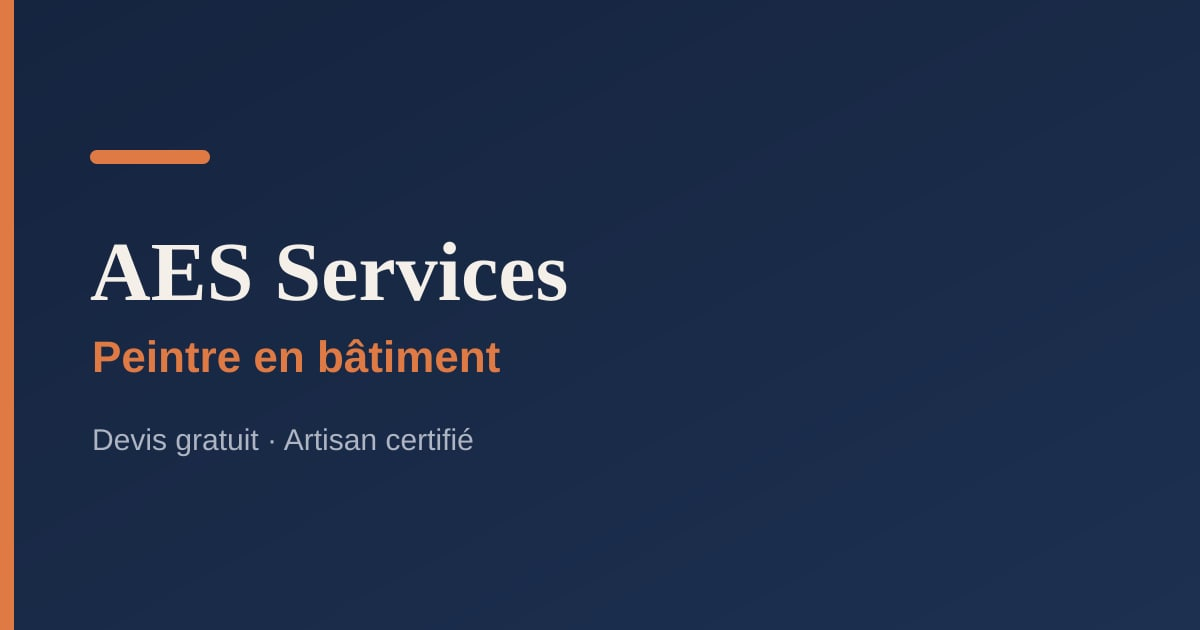
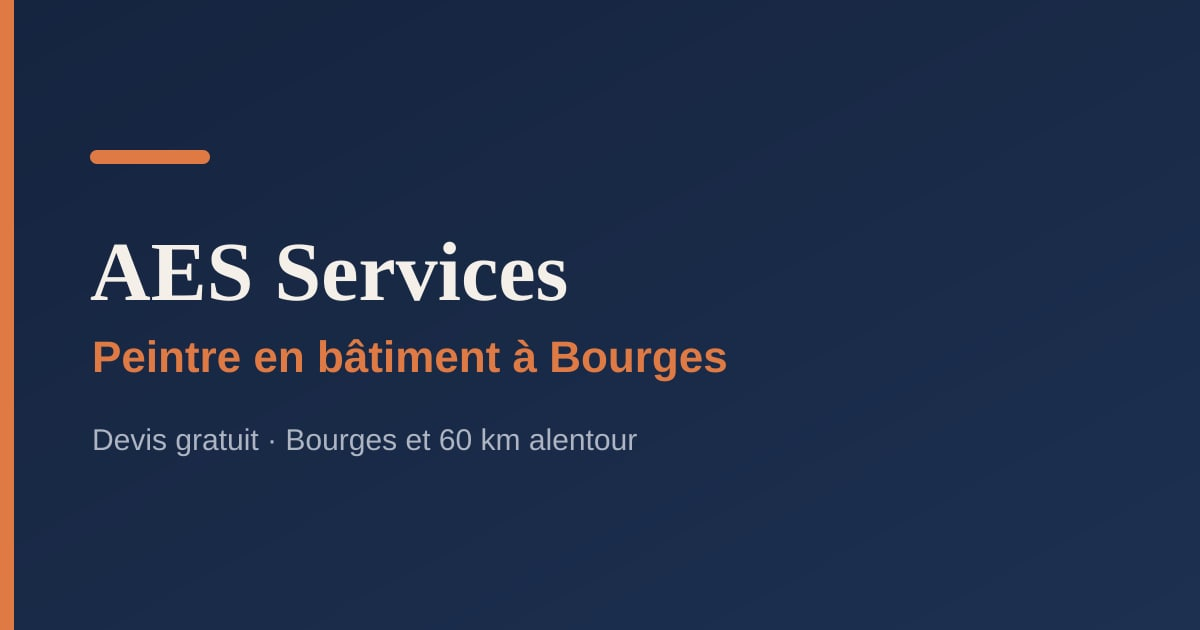
feat(seo): JSON-LD, metadata, llms.txt and base URL plumbing
- 3 JSON-LD blocks: HousePainter (with aggregateRating + areaServed +
  offers), Person, FAQPage
- Centralized canonical base URL in lib/seo.ts (sitemap/robots/layout)
- Fixed metadata URL resolution with project basePath (canonical/OG use
  plain paths since metadataBase carries the basePath; icons use asset())
- public/llms.txt structured business summary
- Conditional Cookies section in legal page (shown when GA id is set)
- OG signature image regenerated with city subline

Claude-Session: https://claude.ai/code/session_01DMSbvoZGHSiRChphS2EjCM

Changed region(s): [[0.2158, 0.6635, 0.5242, 0.7238], [0.4317, 0.5429, 0.6167, 0.6032]]

diff --git a/app/mentions-legales/page.tsx b/app/mentions-legales/page.tsx
@@ -1,6 +1,7 @@
 import type { Metadata } from "next";
 import Link from "next/link";
 import { site } from "../lib/site";
+import { GA_ID } from "../lib/analytics";
 
 export const metadata: Metadata = {
   title: "Mentions légales",
@@ -60,7 +61,20 @@ export default function MentionsLegales() {
         </p>
       </section>
 
-      {/* La section Cookies est ajoutée à l'étape 6 si un GA ID est fourni. */}
+      {GA_ID && (
+        <section id="cookies" className="mt-8 scroll-mt-24 space-y-2 text-sm leading-relaxed">
+          <h2 className="text-xl font-semibold text-ink">Cookies</h2>
+          <p className="text-ink-soft">
+            Ce site utilise des cookies de mesure d&apos;audience (Google
+            Analytics) afin d&apos;analyser la fréquentation et améliorer le
+            contenu. Ces cookies ne sont déposés qu&apos;après votre
+            consentement explicite via le bandeau prévu à cet effet. Vous pouvez
+            modifier ou retirer votre choix à tout moment en cliquant sur «&nbsp;Gérer
+            les cookies&nbsp;» en bas de page. Aucun cookie publicitaire
+            n&apos;est utilisé.
+          </p>
+        </section>
+      )}
     </main>
   );
 }

diff --git a/app/layout.tsx b/app/layout.tsx
@@ -3,6 +3,7 @@ import { Fraunces, Inter } from "next/font/google";
 import "./globals.css";
 import { site } from "./lib/site";
 import { asset } from "./lib/asset";
+import { baseUrl } from "./lib/seo";
 import { Analytics } from "./components/Analytics";
 
 const fraunces = Fraunces({
@@ -17,11 +18,6 @@ const inter = Inter({
   variable: "--font-inter",
   display: "swap",
 });
-
-const baseUrl =
-  site.domain && site.domain.startsWith("http")
-    ? site.domain
-    : "https://nyokaa.github.io/siteaesservices";
 
 const title = `${site.name} — ${site.trade}${
   site.city && !site.city.startsWith("<") ? ` à ${site.city}` : ""
@@ -47,6 +43,9 @@ export const metadata: Metadata = {
     "décoration murale",
     site.city,
   ].filter((k) => k && !k.startsWith("<")),
+  // metadataBase already carries the basePath, so absolute metadata URLs use
+  // plain "/…" paths (Next joins them to metadataBase). Only on-page asset
+  // links (icons, <img>) use asset().
   alternates: { canonical: "/" },
   openGraph: {
     type: "website",
@@ -57,7 +56,7 @@ export const metadata: Metadata = {
     description,
     images: [
       {
-        url: asset("/og.jpg"),
+        url: "/og.jpg",
         width: 1200,
         height: 630,
         alt: `${site.name} — ${site.trade}`,
@@ -68,7 +67,7 @@ export const metadata: Metadata = {
     card: "summary_large_image",
     title,
     description,
-    images: [asset("/og.jpg")],
+    images: ["/og.jpg"],
   },
   icons: {
     icon: asset("/icon.png"),

diff --git a/app/robots.ts b/app/robots.ts
@@ -1,12 +1,7 @@
 import type { MetadataRoute } from "next";
-import { site } from "./lib/site";
+import { baseUrl } from "./lib/seo";
 
 export const dynamic = "force-static";
-
-const baseUrl =
-  site.domain && site.domain.startsWith("http")
-    ? site.domain
-    : "https://nyokaa.github.io/siteaesservices";
 
 export default function robots(): MetadataRoute.Robots {
   return {

diff --git a/app/sitemap.ts b/app/sitemap.ts
@@ -1,12 +1,7 @@
 import type { MetadataRoute } from "next";
-import { site } from "./lib/site";
+import { baseUrl } from "./lib/seo";
 
 export const dynamic = "force-static";
-
-const baseUrl =
-  site.domain && site.domain.startsWith("http")
-    ? site.domain
-    : "https://nyokaa.github.io/siteaesservices";
 
 export default function sitemap(): MetadataRoute.Sitemap {
   return [